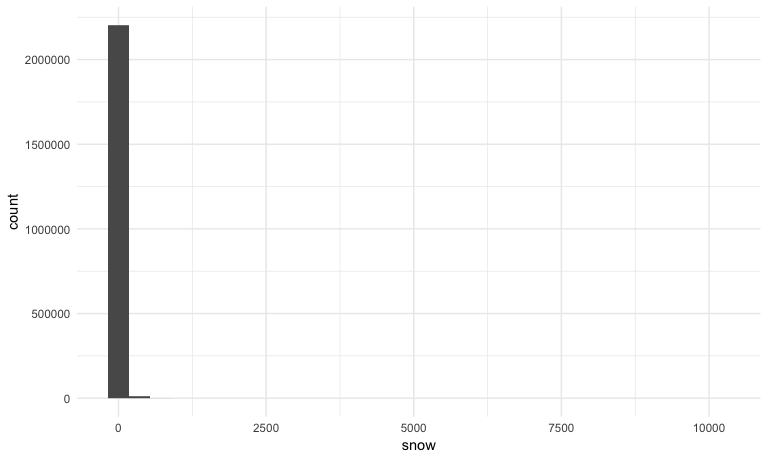
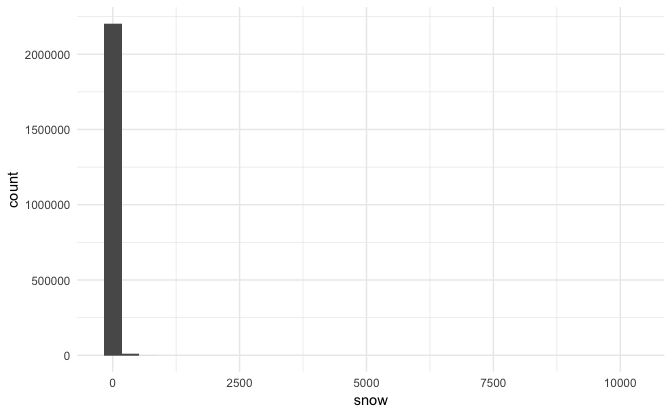
Cleaned up problem 1 writing and graphs

diff --git a/P8105_HW3_cbp2128.md b/P8105_HW3_cbp2128.md
@@ -13,15 +13,17 @@ library(p8105.datasets)
 library(patchwork)
 
 knitr::opts_chunk$set(
-  fig.width = 8,
-  fig.asp = .6,
+  fig.asp = 0.618,
+  fig.align = "center",
   out.width = "90%"
 )
 
 theme_set(theme_minimal())
 ```
 
-This homework focuses on visualization in exploratory data analysis, so we need the plotting from `tidyverse` and the data from `p8105.datasets`. I like the minimal theme, so I've set it for this homework.
+This homework focuses on visualization in exploratory data analysis, so we need the plotting from `tidyverse` and the data from `p8105.datasets`. `patchwork` is for placing figures nicely side-by-side, and `knitr` is for the nice tables. I like the minimal theme, so I've set it for this homework.
+
+I've laid out figure presets from class and some from *R for Data Science*.
 
 Problem 1: BRFSS
 ================
@@ -29,7 +31,7 @@ Problem 1: BRFSS
 Data loading and cleaning
 -------------------------
 
-This problem requires the BRFSS dataset, which we'll pull from `p8105.datasets`. We'll clean the dataset a bit before diving into answering the questions
+This problem requires the BRFSS dataset, which we'll pull from `p8105.datasets`. We'll clean the dataset a bit before diving into answering the questions.
 
 ``` r
 raw_BRFSS = p8105.datasets::brfss_smart2010
@@ -66,7 +68,7 @@ kable(states_w_7_locs_in_2002)
 | FL           |         35|                  7|
 | NC           |         35|                  7|
 
-There were 3 states with 7 locations listed in 2002. This result suggests that only a few states had such extensive surveying done in the early years of the dataset.
+The result is the tibble above. There were 3 states (Conneticut, Florida, and North Carolina) with 7 locations listed in 2002. This result suggests that only a few states had such extensive surveying done in the early years of the dataset.
 
 #### Make a “spaghetti plot” that shows the number of observations in each state from 2002 to 2010.
 
@@ -77,16 +79,22 @@ spaghetti_states = tidy_BRFSS %>%
   filter(., year >= 2002 & year <= 2010) %>% 
   group_by(locationabbr, year) %>% 
   summarize(num_rows = n(),
-            summed_sample_size = sum(sample_size))
+            n_locs = length(unique(locationdesc)))
 
 ggplot(data = spaghetti_states, 
-       aes(x = year, y = summed_sample_size, color = locationabbr)) +
-  geom_line(alpha = 0.5)
+       aes(x = year, y = n_locs, color = locationabbr)) +
+  geom_line(alpha = 0.5) + 
+  labs(
+    title = "Spaghetti plot of number of unique locations by state from 2002 - 2010",
+    x = "Year",
+    y = "Number of unique locations"
+  ) + 
+  theme(legend.position = "none")
 ```
 
-<img src="P8105_HW3_cbp2128_files/figure-markdown_github/P1_spaghetti_states-1.png" width="90%" />
+<img src="P8105_HW3_cbp2128_files/figure-markdown_github/P1_spaghetti_states-1.png" width="90%" style="display: block; margin: auto;" />
 
-A lot of stuff is happening in the plot. There is a lot of clumping at the bottom of the graph since many states with relatively small amounts of observations. States like Florida and Texas take extreme values change the axes which make it more difficult to peer into the state-spaghetti clump.
+Because the plot contains information on all 50 states, a lot of information is compacted and missed. There is a lot of clumping at the bottom of the graph since many states with relatively small amounts of observations. I've hidden the legend since it compacts the plot and doesn't add a lot of information anyways. This graph suggests that most of the states only have a few locations that are surveyed. The lines that rise above the rest are large states that Florida and Texas, indicating that they are heavily represented in the survey. Most of the states have less than 10 locations.
 
 #### Make a table for the years 2002, 2006, and 2010 and show the mean and standard deviation of the proportion of “Excellent” responses across locations in NY State.
 
@@ -123,27 +131,15 @@ avgd_resp_thru_time = tidy_BRFSS %>%
   group_by(year, locationabbr, response) %>% 
   summarize(avg_prop = mean(data_value))
 
-# Making individual vars cuz looping syntax looked horrifying
-poor_data = filter(avgd_resp_thru_time, response == "Poor")
-fair_data = filter(avgd_resp_thru_time, response == "Fair")
-good_data = filter(avgd_resp_thru_time, response == "Good")
-very_good_data = filter(avgd_resp_thru_time, response == "Very good")
-excellent_data = filter(avgd_resp_thru_time, response == "Excellent")
-
-produce_panel = function(data) {
-  return(
-    ggplot(data = data,
-       aes(x = year, y = avg_prop, color = locationabbr)) + 
-  geom_line(alpha = 0.5, show.legend=FALSE)
-  )
-}
-
-#produce_panel(poor_data) 
-#produce_panel(fair_data) 
-#produce_panel(good_data) 
-#produce_panel(very_good_data) 
-#produce_panel(excellent_data)
+ggplot(avgd_resp_thru_time, aes(x = year, y = avg_prop)) +
+  geom_line(aes(color = locationabbr), alpha = 0.5) +
+  facet_grid(response ~ .) +
+  theme(panel.spacing = unit(1, "lines"), legend.position = "none")
 ```
+
+<img src="P8105_HW3_cbp2128_files/figure-markdown_github/P1_five_panel_bonanza-1.png" width="90%" style="display: block; margin: auto;" />
+
+In this
 
 Problem 2: Instacart
 ====================
@@ -189,7 +185,7 @@ ggplot(data = instacart,
   geom_bar() + coord_flip()
 ```
 
-<img src="P8105_HW3_cbp2128_files/figure-markdown_github/P2_items_by_aisles-1.png" width="90%" />
+<img src="P8105_HW3_cbp2128_files/figure-markdown_github/P2_items_by_aisles-1.png" width="90%" style="display: block; margin: auto;" />
 
 comments about bar graph
 
@@ -286,7 +282,7 @@ ggplot(data = clean_NY_NOAA,
 
     ## Warning: Removed 381221 rows containing non-finite values (stat_bin).
 
-<img src="P8105_HW3_cbp2128_files/figure-markdown_github/P3_wheres_my_snow-1.png" width="90%" />
+<img src="P8105_HW3_cbp2128_files/figure-markdown_github/P3_wheres_my_snow-1.png" width="90%" style="display: block; margin: auto;" />
 
 New York's temperautres range greatly throughout the year, and snowfall can only happen when it's below 0°C. It only gets that cold in the winter season, so we can expect that we New York won't get any snowfall when it's warmer. Thus, the most frequently observed snow depth in the dataset is 0.
 
@@ -310,7 +306,7 @@ jul_temps = ggplot(data = filter(jan_jul_temps, month == 7),
 jan_temps / jul_temps
 ```
 
-<img src="P8105_HW3_cbp2128_files/figure-markdown_github/P3_jan_vs_jul_temps-1.png" width="90%" />
+<img src="P8105_HW3_cbp2128_files/figure-markdown_github/P3_jan_vs_jul_temps-1.png" width="90%" style="display: block; margin: auto;" />
 
 Since each station measures a different maximum and minimum temperature, my approach was to look at the distribution of these station measurements with a boxplot. We see that the average temperature in January is much lower than July through the duration of 1981 to 2010, hovering below 0°C. Both January and July have outlier measurements through time, but January seems to have greater variance.
 
@@ -344,26 +340,14 @@ min_max_pairs
 
     ## Warning: Removed 1136276 rows containing non-finite values (stat_bin2d).
 
-<img src="P8105_HW3_cbp2128_files/figure-markdown_github/temp_thru_time-1.png" width="90%" />
+<img src="P8105_HW3_cbp2128_files/figure-markdown_github/temp_thru_time-1.png" width="90%" style="display: block; margin: auto;" />
 
 ``` r
 snowfall_thru_time
 ```
 
-<img src="P8105_HW3_cbp2128_files/figure-markdown_github/temp_thru_time-2.png" width="90%" />
+<img src="P8105_HW3_cbp2128_files/figure-markdown_github/temp_thru_time-2.png" width="90%" style="display: block; margin: auto;" />
 
 The `tmax_C` vs `tmin_C` comparison gives us an elliptical shape that suggests that the ranges for the two variables are different. Most of the heat ranges from 0°C to 30°C for `tmax_C` and from 0°C to 15°C for `tmin_C`. These ranges capture the lows of winter to the balmy summers.
 
-The distribution of `snow` shows that snowfall remained relatively stable around 32mm of snow up until 2005. The years after that suggest a drop in the amount of snowfall. The solid line describes the trend in mean snowfall amount, and the ribbon captures a 95% confidence interval for the mean snowfall for each year. The distirbution of snowfall values between 0 and 100 are slightly right-skewed, but the sheer amount of data points can reduce the sampling variance.
-
-``` r
-test = clean_NY_NOAA %>% 
-  filter(., snow > 0 & snow < 100) %>% 
-  ggplot(data = ., aes(x = snow)) +
-  geom_histogram()
-test
-```
-
-    ## `stat_bin()` using `bins = 30`. Pick better value with `binwidth`.
-
-<img src="P8105_HW3_cbp2128_files/figure-markdown_github/unnamed-chunk-1-1.png" width="90%" />
+The distribution of `snow` shows that snowfall remained relatively stable around 32mm of snow up until 2005. The years after that suggest a drop in the amount of snowfall. The solid line describes the trend in mean snowfall amount, and the ribbon captures a 95% confidence interval for the mean snowfall for each year. The distirbution of snowfall values between 0 and 100 are slightly right-skewed, but the sheer amount of data points can reduce the sampling variance enough to be reasonably normal.
